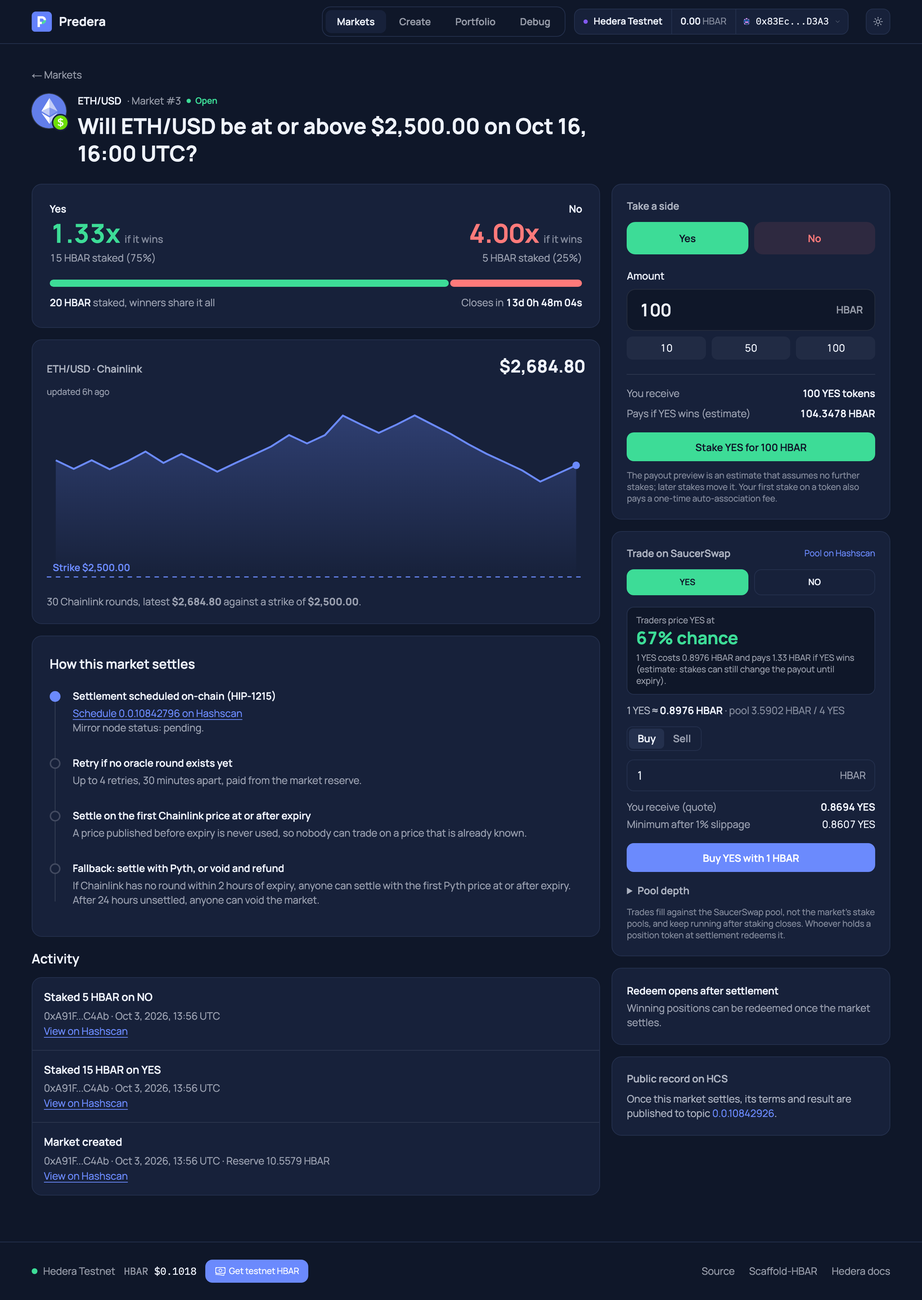
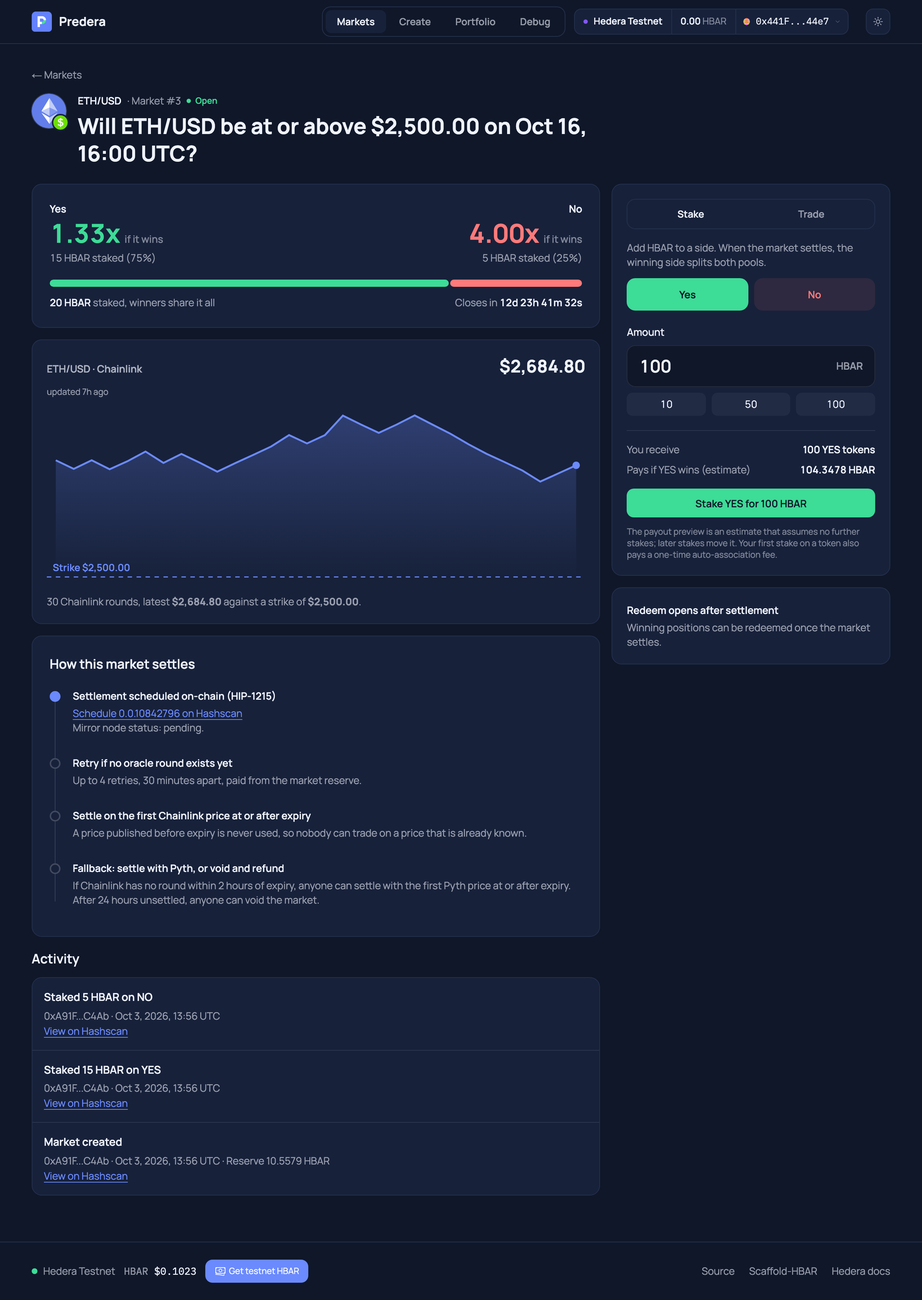
feat(markets): one position card with Stake and Trade tabs
Staking and SaucerSwap trading were two cards that both answer "how do I
take a side". PositionCard puts them behind one segmented tab strip, the same
SegmentedTabs the market list uses for its status filter. Expired markets open
on Trade, since swaps continue after staking closes. Docs and screenshots
follow the new layout.

Changed region(s): [[0.6562, 0.1552, 0.9688, 0.5898], [0.6562, 0.5898, 0.9688, 0.8692], [0.875, 0.1552, 0.9062, 0.1863]]

diff --git a/packages/nextjs/components/markets/TradePanel.tsx b/packages/nextjs/components/markets/TradePanel.tsx
@@ -40,7 +40,14 @@ const deadline = () => BigInt(Math.floor(Date.now() / 1000)) + SWAP_DEADLINE_SEC
  * rate; this panel buys from or sells to whoever provides liquidity, at the AMM price. Quotes come from the
  * router's getAmountsOut; nothing here computes a payout.
  */
-export function TradePanel({ market }: { market: Market }) {
+export function TradePanel({
+  market,
+  embedded = false,
+}: {
+  market: Market;
+  /** Rendered inside PositionCard, which supplies the panel frame and the tab that names it. */
+  embedded?: boolean;
+}) {
   const { targetNetwork } = useTargetNetwork();
   const deployment = SAUCERSWAP[targetNetwork.id];
   const [side, setSide] = useState<Side>("YES");
@@ -51,36 +58,50 @@ export function TradePanel({ market }: { market: Market }) {
   if (!deployment || market.state !== MarketState.Open) return null;
 
   return (
-    <section className="panel p-5">
+    <section className={embedded ? "" : "panel p-5"}>
       <div className="flex items-center justify-between gap-2">
-        <p className="text-sm font-semibold text-base-content/70 m-0">Trade on SaucerSwap</p>
+        {embedded ? (
+          <p className="text-sm text-base-content/60 m-0">
+            Buy or sell YES and NO tokens on SaucerSwap at the pool price.
+          </p>
+        ) : (
+          <p className="text-sm font-semibold text-base-content/70 m-0">Trade on SaucerSwap</p>
+        )}
         {pool.pair && (
           <a
             href={hashscanLink(targetNetwork.id, "contract", pool.pair)}
             target="_blank"
             rel="noreferrer"
-            className="text-xs text-primary"
+            className="text-xs text-primary shrink-0"
           >
             Pool on Hashscan
           </a>
         )}
       </div>
-      <div className="grid grid-cols-2 gap-2 mt-3">
-        {(["YES", "NO"] as const).map(option => (
-          <button
-            key={option}
-            onClick={() => setSide(option)}
-            className={`btn btn-sm h-9 ${
-              side === option
-                ? option === "YES"
-                  ? "bg-yes text-base-200 border-yes"
-                  : "bg-no text-base-200 border-no"
-                : "btn-ghost border-base-300"
-            }`}
-          >
-            {option}
-          </button>
-        ))}
+      <div className="grid grid-cols-2 gap-2 mt-3" role="radiogroup" aria-label="Outcome">
+        {(["YES", "NO"] as const).map(option => {
+          const selected = side === option;
+          const yes = option === "YES";
+          return (
+            <button
+              key={option}
+              role="radio"
+              aria-checked={selected}
+              onClick={() => setSide(option)}
+              className={`py-3 rounded-xl font-semibold transition-colors ${
+                yes
+                  ? selected
+                    ? "bg-yes text-base-200"
+                    : "bg-yes/10 text-yes hover:bg-yes/20"
+                  : selected
+                    ? "bg-no text-base-200"
+                    : "bg-no/10 text-no hover:bg-no/20"
+              }`}
+            >
+              {yes ? "Yes" : "No"}
+            </button>
+          );
+        })}
       </div>
       {pool.isLoading ? (
         <p className="text-sm mt-4 mb-0 text-base-content/60">Looking for a pool…</p>

diff --git a/packages/nextjs/app/page.tsx b/packages/nextjs/app/page.tsx
@@ -5,7 +5,7 @@ import Link from "next/link";
 import { MagnifyingGlassIcon } from "@heroicons/react/20/solid";
 import { FILTERS, MarketCard } from "~~/components/markets/MarketCard";
 import { EmptyState, ErrorState, MarketCardSkeleton } from "~~/components/markets/States";
-import { CoinIcon } from "~~/components/markets/ui";
+import { CoinIcon, SegmentedTabs } from "~~/components/markets/ui";
 import { type PricePoint, useChainlinkHistory } from "~~/hooks/markets/useChainlinkHistory";
 import { useMarketConfig } from "~~/hooks/markets/useMarketConfig";
 import { useMarkets } from "~~/hooks/markets/useMarkets";
@@ -104,32 +104,16 @@ const Home = () => {
       </p>
 
       <div className="mt-6 flex flex-wrap items-center gap-3">
-        <div
-          role="tablist"
-          aria-label="Status"
-          className="flex max-w-full overflow-x-auto rounded-xl border border-base-300 p-1"
-        >
-          {FILTERS.map(entry => {
-            const selected = filter === entry.value;
-            const total = matching.filter(item => matchesFilter(item.status, entry.value)).length;
-            return (
-              <button
-                key={entry.value}
-                role="tab"
-                aria-selected={selected}
-                onClick={() => setFilter(entry.value)}
-                className={`flex items-center gap-1.5 whitespace-nowrap rounded-lg px-3.5 py-1.5 text-[13.5px] font-semibold transition-colors ${
-                  selected ? "bg-base-100 text-base-content" : "text-base-content/60 hover:text-base-content"
-                }`}
-              >
-                {entry.label}
-                <span className={`text-xs tabular-nums ${selected ? "text-base-content/60" : "text-base-content/40"}`}>
-                  {total}
-                </span>
-              </button>
-            );
-          })}
-        </div>
+        <SegmentedTabs
+          ariaLabel="Status"
+          value={filter}
+          onChange={setFilter}
+          tabs={FILTERS.map(entry => ({
+            value: entry.value,
+            label: entry.label,
+            count: matching.filter(item => matchesFilter(item.status, entry.value)).length,
+          }))}
+        />
         <label className="ml-auto flex w-full sm:w-72 items-center gap-2 rounded-xl border border-base-300 px-3 h-[42px] focus-within:border-primary">
           <MagnifyingGlassIcon className="w-4 h-4 text-base-content/50" aria-hidden />
           <input

diff --git a/packages/nextjs/components/markets/PositionCard.tsx b/packages/nextjs/components/markets/PositionCard.tsx
@@ -1,0 +1,59 @@
+"use client";
+
+import { useState } from "react";
+import { StakePanel } from "~~/components/markets/StakePanel";
+import { TradePanel } from "~~/components/markets/TradePanel";
+import { SegmentedTabs } from "~~/components/markets/ui";
+import { useTargetNetwork } from "~~/hooks/scaffold-hbar";
+import { SAUCERSWAP } from "~~/utils/markets/saucerswap";
+import { type Market, MarketState, type UiStatus } from "~~/utils/markets/types";
+
+type Tab = "stake" | "trade";
+
+type PositionCardProps = {
+  marketId: number;
+  market: Market;
+  status: UiStatus;
+  initialSide?: "YES" | "NO";
+};
+
+/**
+ * One card for taking a position. Stake adds HBAR to a side's pool at the pool-share rate; Trade swaps
+ * position tokens with other traders on SaucerSwap. Trade only exists while the market is open on a network
+ * with a SaucerSwap deployment, so otherwise the card is the stake panel alone.
+ */
+export function PositionCard({ marketId, market, status, initialSide }: PositionCardProps) {
+  const { targetNetwork } = useTargetNetwork();
+  const canTrade = Boolean(SAUCERSWAP[targetNetwork.id]) && market.state === MarketState.Open;
+  // Staking closes at expiry while swaps continue until settlement, so an expired market opens on Trade.
+  const [tab, setTab] = useState<Tab>(() =>
+    Date.now() < Number(market.expiry) * 1000 || !canTrade ? "stake" : "trade",
+  );
+  const active: Tab = canTrade ? tab : "stake";
+
+  return (
+    <section className="panel p-5">
+      {canTrade && (
+        <div className="mb-4">
+          <SegmentedTabs
+            ariaLabel="Take a position"
+            fill
+            value={active}
+            onChange={setTab}
+            tabs={[
+              { value: "stake", label: "Stake" },
+              { value: "trade", label: "Trade" },
+            ]}
+          />
+        </div>
+      )}
+      <div role={canTrade ? "tabpanel" : undefined}>
+        {active === "stake" ? (
+          <StakePanel marketId={marketId} market={market} status={status} initialSide={initialSide} embedded />
+        ) : (
+          <TradePanel market={market} embedded />
+        )}
+      </div>
+    </section>
+  );
+}

diff --git a/packages/nextjs/components/markets/ui.tsx b/packages/nextjs/components/markets/ui.tsx
@@ -1,3 +1,4 @@
+import type { ReactNode } from "react";
 import type { PricePoint } from "~~/hooks/markets/useChainlinkHistory";
 import { ASSET_ICONS } from "~~/utils/brand";
 import type { UiStatus } from "~~/utils/markets/types";
@@ -82,5 +83,53 @@ export function Sparkline({ points, className = "" }: { points: PricePoint[]; cl
     <svg viewBox="0 0 110 32" className={`w-28 h-8 ${rising ? "text-yes" : "text-no"} ${className}`} aria-hidden>
       <path d={path} fill="none" stroke="currentColor" strokeWidth="1.75" strokeLinejoin="round" />
     </svg>
+  );
+}
+
+type Tab<T extends string> = { value: T; label: ReactNode; count?: number };
+
+/** Segmented tab strip: the market list's status filter and the market page's Stake / Trade switch. */
+export function SegmentedTabs<T extends string>({
+  tabs,
+  value,
+  onChange,
+  ariaLabel,
+  fill = false,
+}: {
+  tabs: Tab<T>[];
+  value: T;
+  onChange: (value: T) => void;
+  ariaLabel: string;
+  /** Stretch the tabs to share the full width, as inside a card. */
+  fill?: boolean;
+}) {
+  return (
+    <div
+      role="tablist"
+      aria-label={ariaLabel}
+      className={`flex max-w-full overflow-x-auto rounded-xl border border-base-300 p-1 ${fill ? "w-full" : ""}`}
+    >
+      {tabs.map(tab => {
+        const selected = tab.value === value;
+        return (
+          <button
+            key={tab.value}
+            role="tab"
+            aria-selected={selected}
+            onClick={() => onChange(tab.value)}
+            className={`flex items-center justify-center gap-1.5 whitespace-nowrap rounded-lg px-3.5 py-1.5 text-[13.5px] font-semibold transition-colors ${
+              fill ? "flex-1" : ""
+            } ${selected ? "bg-base-100 text-base-content" : "text-base-content/60 hover:text-base-content"}`}
+          >
+            {tab.label}
+            {tab.count !== undefined && (
+              <span className={`text-xs tabular-nums ${selected ? "text-base-content/60" : "text-base-content/40"}`}>
+                {tab.count}
+              </span>
+            )}
+          </button>
+        );
+      })}
+    </div>
   );
 }

diff --git a/packages/nextjs/components/markets/StakePanel.tsx b/packages/nextjs/components/markets/StakePanel.tsx
@@ -26,12 +26,14 @@ type StakePanelProps = {
   status: UiStatus;
   /** Side selected on first render, from the market card's Stake Yes or Stake No link. */
   initialSide?: "YES" | "NO";
+  /** Rendered inside PositionCard, which supplies the panel frame and the tab that names it. */
+  embedded?: boolean;
 };
 
 type Association = "checking" | "ok" | "needs-association" | "unknown";
 
 /** Stake YES/NO with a projected payout, association check and explicit gas. */
-export function StakePanel({ marketId, market, status, initialSide = "YES" }: StakePanelProps) {
+export function StakePanel({ marketId, market, status, initialSide = "YES", embedded = false }: StakePanelProps) {
   const { address: account } = useAccount();
   const { targetNetwork } = useTargetNetwork();
   const [side, setSide] = useState<"YES" | "NO">(initialSide);
@@ -126,7 +128,7 @@ export function StakePanel({ marketId, market, status, initialSide = "YES" }: St
 
   if (!tradingOpen) {
     return (
-      <div className="panel p-5">
+      <div className={embedded ? "" : "panel p-5"}>
         <p className="text-sm font-semibold text-base-content/70 m-0">Staking closed</p>
         <p className="text-base font-medium leading-snug mt-2 mb-0">
           {isRefund(market)
@@ -146,8 +148,14 @@ export function StakePanel({ marketId, market, status, initialSide = "YES" }: St
   }
 
   return (
-    <div className="panel p-5">
-      <p className="text-sm font-semibold text-base-content/70 m-0">Take a side</p>
+    <div className={embedded ? "" : "panel p-5"}>
+      {embedded ? (
+        <p className="text-sm text-base-content/60 m-0">
+          Add HBAR to a side. When the market settles, the winning side splits both pools.
+        </p>
+      ) : (
+        <p className="text-sm font-semibold text-base-content/70 m-0">Take a side</p>
+      )}
       <div className="grid grid-cols-2 gap-2 mt-3" role="radiogroup" aria-label="Outcome">
         <button
           role="radio"

diff --git a/packages/nextjs/app/markets/[id]/MarketDetail.tsx b/packages/nextjs/app/markets/[id]/MarketDetail.tsx
@@ -4,13 +4,12 @@ import Link from "next/link";
 import { ActivityPanel } from "~~/components/markets/ActivityPanel";
 import { Countdown } from "~~/components/markets/Countdown";
 import { OddsBar } from "~~/components/markets/OddsBar";
+import { PositionCard } from "~~/components/markets/PositionCard";
 import { PriceChart } from "~~/components/markets/PriceChart";
 import { RecordPanel } from "~~/components/markets/RecordPanel";
 import { RedeemPanel } from "~~/components/markets/RedeemPanel";
 import { SettlementTimeline } from "~~/components/markets/SettlementTimeline";
-import { StakePanel } from "~~/components/markets/StakePanel";
 import { ErrorState, MarketDetailSkeleton } from "~~/components/markets/States";
-import { TradePanel } from "~~/components/markets/TradePanel";
 import { AssetBadge, StatusPill } from "~~/components/markets/ui";
 import { useChainlinkHistory } from "~~/hooks/markets/useChainlinkHistory";
 import { useMarket } from "~~/hooks/markets/useMarket";
@@ -139,8 +138,7 @@ export function MarketDetail({ id, initialSide = "YES" }: { id: string; initialS
         </div>
         <div className="lg:col-span-4 order-first lg:order-none">
           <div className="lg:sticky lg:top-24 flex flex-col gap-4">
-            <StakePanel marketId={Number(id)} market={market} status={status} initialSide={initialSide} />
-            <TradePanel market={market} />
+            <PositionCard marketId={Number(id)} market={market} status={status} initialSide={initialSide} />
             <RedeemPanel marketId={Number(id)} market={market} />
             <RecordPanel marketId={Number(id)} market={market} />
           </div>

diff --git a/README.md b/README.md
@@ -10,13 +10,13 @@ Live demo on Hedera testnet: [predera.vercel.app](https://predera.vercel.app). I
 
 ![Market 0 on testnet: the scheduled call found no Chainlink round, booked two retries on its own, and the second retry settled YES. Every step is in the activity panel with a Hashscan link](docs/screenshots/market-detail.png)
 
-Demo video (100 s, testnet, production build): [docs/predera-demo.mp4](docs/predera-demo.mp4). More screenshots: [an open market with the payout preview](docs/screenshots/market-open.png), [market list](docs/screenshots/markets.png), [create form](docs/screenshots/create.png), [mobile](docs/screenshots/market-detail-mobile.png), [light theme](docs/screenshots/market-detail-light.png). All are taken from the production build against the live testnet deployment.
+Demo video (100 s, testnet, production build): [docs/predera-demo.mp4](docs/predera-demo.mp4). More screenshots: [an open market with the payout preview](docs/screenshots/market-open.png), [its Trade tab with the implied chance](docs/screenshots/market-trade.png), [market list](docs/screenshots/markets.png), [create form](docs/screenshots/create.png), [mobile](docs/screenshots/market-detail-mobile.png), [light theme](docs/screenshots/market-detail-light.png). All are taken from the production build against the live testnet deployment.
 
 ## What's in it
 
 One contract, `PredictionMarkets.sol`, holds every market. It creates two HTS tokens per market (YES and NO) and keeps the treasury, supply and wipe keys for them, so staking mints tokens and redeeming wipes them without an approve step. It books settlement through the Schedule Service at `0x16b` (HIP-1215) and settles on the first oracle price published at or after expiry, so nobody can bet on a price that is already known.
 
-The Next.js app has a market list, a create form that defaults the strike to the live Chainlink price, a market page (pool split, price chart, stake panel, settlement timeline, activity log with Hashscan links, redeem) and a portfolio page.
+The Next.js app has a market list, a create form that defaults the strike to the live Chainlink price, a market page (pool split, price chart, one position card with Stake and Trade tabs, settlement timeline, activity log with Hashscan links, redeem) and a portfolio page.
 
 Around it: 111 Foundry unit tests plus 5 invariants checked over random multi-market action sequences (HTS and the Schedule Service mocked, 100% line coverage of the production contracts: PredictionMarkets 242/242 lines, 90% branches), 83 vitest tests, an end-to-end script that runs the whole lifecycle on testnet, and a Hedera Harness recipe in `.harness/` that one feature of this app was built with.
 
@@ -169,8 +169,8 @@ Payout equals `amount * totalPool / winningPool` and is read from the contract's
 Staking is parimutuel: your HBAR joins the market's YES or NO pool and stays there until settlement. Because the position tokens are plain HTS tokens, anyone can also trade them on SaucerSwap V1, Hedera's main DEX, at any time before settlement. The contract is not involved: whoever holds a token when the market settles redeems it.
 
 - **Open a pool.** A holder of YES (or NO) tokens deposits tokens and HBAR with the router's `addLiquidityETHNewPool`. The deposit ratio sets the starting price, and the depositor receives the pool's LP token. SaucerSwap charges a fixed $2 pool fee: the factory reports it in tinycents (`pairCreateFee`) and the Hedera exchange-rate system contract (`0x168`, `tinycentsToTinybars`) converts it to HBAR, 19.66 HBAR when measured.
-- **Buy or sell.** The trade panel on the market page finds the pool through `factory.getPair(token, WHBAR)`, shows its price and reserves, quotes with the router's `getAmountsOut` and swaps with `swapExactETHForTokens` or `swapExactTokensForETH` at a 1% slippage floor. Selling needs an `approve` on the token first (HTS tokens have an ERC-20 facade).
-- **Odds you can read.** Stakes alone never price the outcome: they fix what a winning token pays, shown as a multiple on every card and market page (`1.60x` for 5 HBAR on YES against 3 on NO). The SaucerSwap price is what traders pay for a token right now, and dividing it by that multiple gives the chance the market assigns: 0.7784 HBAR for a token that pays 1.60 reads as 49%. The trade panel shows that chance, and a pool depth table lists the average fill for 1, 10 and 50 HBAR trades on each side, computed from the pool's constant-product curve (the formula reproduces the e2e buy on testnet to the last unit).
+- **Buy or sell.** The Trade tab of the market page's position card (next to Stake, so both ways in sit in one place) finds the pool through `factory.getPair(token, WHBAR)`, shows its price and reserves, quotes with the router's `getAmountsOut` and swaps with `swapExactETHForTokens` or `swapExactTokensForETH` at a 1% slippage floor. Selling needs an `approve` on the token first (HTS tokens have an ERC-20 facade).
+- **Odds you can read.** Stakes alone never price the outcome: they fix what a winning token pays, shown as a multiple on every card and market page (`1.60x` for 5 HBAR on YES against 3 on NO). The SaucerSwap price is what traders pay for a token right now, and dividing it by that multiple gives the chance the market assigns: 0.7784 HBAR for a token that pays 1.60 reads as 49%. The Trade tab shows that chance, and a pool depth table lists the average fill for 1, 10 and 50 HBAR trades on each side, computed from the pool's constant-product curve (the formula reproduces the e2e buy on testnet to the last unit).
 
 Measured on testnet (`yarn foundry:e2e:testnet` runs all three steps):
 
@@ -210,7 +210,7 @@ Staking is parimutuel, not an order book: one position token is minted per HBAR 
 
 ![Payouts for market 0: the YES staker redeems 8 HBAR if YES wins, the NO staker 8 if NO wins, and both get their stake back on a void. A YES token pays total pool divided by YES pool, 1.6x for market 0, and the multiple falls as more HBAR joins the winning side.](docs/img/payoff.svg)
 
-A position token is not a fixed 1 HBAR claim: its value at settlement depends on how the pool ends up split. That is why the stake panel labels its "pays if this side wins" figure as an estimate, and why a SaucerSwap price for a token can sit above 1 HBAR.
+A position token is not a fixed 1 HBAR claim: its value at settlement depends on how the pool ends up split. That is why the Stake tab labels its "pays if this side wins" figure as an estimate, and why a SaucerSwap price for a token can sit above 1 HBAR.
 
 ### Units (tinybar vs weibar)
 
@@ -293,7 +293,7 @@ packages/nextjs/
   app/llms.txt/route.ts             Plain-text guide for LLM agents, generated from the deployment
   app/api/record/route.ts           Publishes and reads HCS settlement records (server-only operator key)
   scripts/createRecordTopic.mjs     Creates the HCS record topic with the operator as submit key
-  components/markets/               MarketCard, StakePanel, TradePanel (SaucerSwap), RedeemPanel, OddsBar, Countdown, PriceChart, SettlementTimeline, ActivityPanel, States, ui (shared badges and bars)
+  components/markets/               MarketCard, PositionCard (Stake and Trade tabs over StakePanel and TradePanel), RedeemPanel, OddsBar, Countdown, PriceChart, SettlementTimeline, ActivityPanel, States, ui (shared badges and bars)
   styles/globals.css                Both daisyUI themes and the YES/NO colors: the whole look in one file
   utils/brand.ts                    App name, description and the theme colors that CSS cannot reach
   hooks/markets/                    useMarket, useMarkets, usePositions, useSaucerPool, useAccountExists, useMarketConfig, useChainlinkHistory, useScheduleStatus, useFeedInfo, useCreationEstimate, useMarketActivity
@@ -429,7 +429,7 @@ The remaining low and informational results are deliberate: block timestamps dri
 | "Live price is unavailable" on the create form | Chainlink read failed or the feed address is wrong for the connected network | Check the network (testnet 296, mainnet 295), compare the address with `packages/foundry/script/HelperConfig.s.sol`, and retry. Creation still works with a manual strike |
 | Market stuck awaiting settlement | No Chainlink round at or after expiry exists yet, or retries ran out | Wait for the next retry, call `settle` once a round exists, or use the Pyth fallback. After the 24 hour grace period anyone can void |
 | "Settle with Pyth" button disabled or explains setup | `PYTH_API_KEY` is not set (Hermes requires an API key since 2026-08-26) | Set `PYTH_API_KEY` in `packages/nextjs/.env` and retry. Chainlink settlement and voiding work without it |
-| Stake reverts with `TokenTransferFailed(184)` | Response code 184 is `TOKEN_NOT_ASSOCIATED_TO_ACCOUNT`: the staker's account has no free auto-association slot and is not associated with the position token | Use the one-click association prompt in the stake panel, then stake again. First stake per token per account costs about 0.65 HBAR (auto-association) versus about 0.04 HBAR normally |
+| Stake reverts with `TokenTransferFailed(184)` | Response code 184 is `TOKEN_NOT_ASSOCIATED_TO_ACCOUNT`: the staker's account has no free auto-association slot and is not associated with the position token | Use the one-click association prompt in the Stake tab, then stake again. First stake per token per account costs about 0.65 HBAR (auto-association) versus about 0.04 HBAR normally |
 | Balance too low after using the faucet | The faucet gives 10 HBAR per day; a market needs about 23 HBAR in token fees plus an 8.5 HBAR reserve | Get a Hedera Portal testnet account (portal.hedera.com, 1000 HBAR per day) |
 | Wallet is on the wrong network | MetaMask points at mainnet or a local node while the app targets testnet | Switch the wallet to Hedera testnet (chain id 296, RPC https://testnet.hashio.io/api) and reload |
 

diff --git a/AGENTS.md b/AGENTS.md
@@ -30,7 +30,7 @@ npm users: replace `yarn <script>` with `npm run <script>`. Inside `packages/fou
 - `packages/foundry/scripts-js/e2eTestnet.js`: create, stake both sides, wait for scheduled settle, redeem, withdraw reserve.
 - `packages/foundry/test/`: `PredictionMarkets.t.sol`, `PredictionMarkets.invariant.t.sol` (random multi-market sequences; extend its handler when adding an action), `PriceMath.t.sol`, `HelperConfig.t.sol`, `mocks/` (etched at `0x167`/`0x16b`).
 - `packages/nextjs/app/`: `page.tsx` (list), `markets/new`, `markets/[id]`, `portfolio`, `api/pyth/route.ts` (server-only Hermes proxy), `api/markets` and `llms.txt` (read-only JSON and agent guide; shape in `utils/markets/marketJson.ts`), `api/record` (HCS settlement records; format in `utils/markets/record.ts`, SDK calls in `utils/markets/hcs.ts`).
-- `packages/nextjs/components/markets/`: MarketCard, StakePanel, TradePanel (SaucerSwap), RedeemPanel, OddsBar, Countdown, PriceChart, SettlementTimeline, ActivityPanel, States, `ui.tsx` (AssetBadge, StatusPill, OutcomeBar).
+- `packages/nextjs/components/markets/`: MarketCard, PositionCard (Stake and Trade tabs over StakePanel and TradePanel, the SaucerSwap side), RedeemPanel, OddsBar, Countdown, PriceChart, SettlementTimeline, ActivityPanel, States, `ui.tsx` (AssetBadge, StatusPill, OutcomeBar, SegmentedTabs).
 - `packages/nextjs/styles/globals.css`: both daisyUI themes (`hedera` dark default, `hedera-light`) and `--color-yes`/`--color-no`. `utils/brand.ts`: app name and the hex colors CSS cannot reach.
 - `packages/nextjs/hooks/markets/`: useMarket(s), usePositions, useSaucerPool, useAccountExists, useMarketConfig, useChainlinkHistory, useScheduleStatus, useFeedInfo, useCreationEstimate, useMarketActivity.
 - `packages/nextjs/utils/markets/`: `units.ts` (unit boundary + gas limits), `saucerswap.ts` (SaucerSwap V1 addresses, ABIs, price and slippage helpers), `feeds.ts`, `status.ts`, `mirror.ts`, `activity.ts` (event log decoder), `hashscan.ts`, `types.ts`.

diff --git a/docs/TUTORIAL.md b/docs/TUTORIAL.md
@@ -29,7 +29,7 @@ Create a market from **Create market** in the header. Pick HBAR, keep the sugges
 |---|---|---|
 | Create market confirms | The contract created two HTS tokens (YES and NO) with itself as treasury, supply key and wipe key, then booked its own `settle` call with the Schedule Service (HIP-1215) for 10 minutes after expiry. | `createMarket` in `packages/foundry/contracts/PredictionMarkets.sol` |
 | You stake 1 HBAR on YES | Your HBAR joined the YES pool, the contract minted 1 YES token and sent it to you. The first stake per token also associates your account with it (about 0.65 HBAR, once). | `stake`; association prompt in `components/markets/StakePanel.tsx` |
-| The countdown hits zero | Trading stops. Anyone could already open a SaucerSwap pool for the tokens and trade them before this point. | `components/markets/TradePanel.tsx` |
+| The countdown hits zero | Staking stops. YES and NO tokens keep changing hands on SaucerSwap, in the market page's Trade tab, until the market settles. | `components/markets/PositionCard.tsx`, `TradePanel.tsx` |
 | "Resolving" appears | The network ran the booked call. It looks for the first Chainlink round published at or after expiry; when there is none yet, it books the next check from the market's reserve. | `settle`, `_eligibleChainlinkRound` |
 | "Settled YES" or "Settled NO" | A scheduled check found a round it could prove is the first after expiry and closed the market on it. | `settle`, `chainlinkSettlementRound` |
 | You redeem | The contract wiped your tokens with its wipe key and paid `quotePayout`. No approve step. | `redeem`, `components/markets/RedeemPanel.tsx` |
